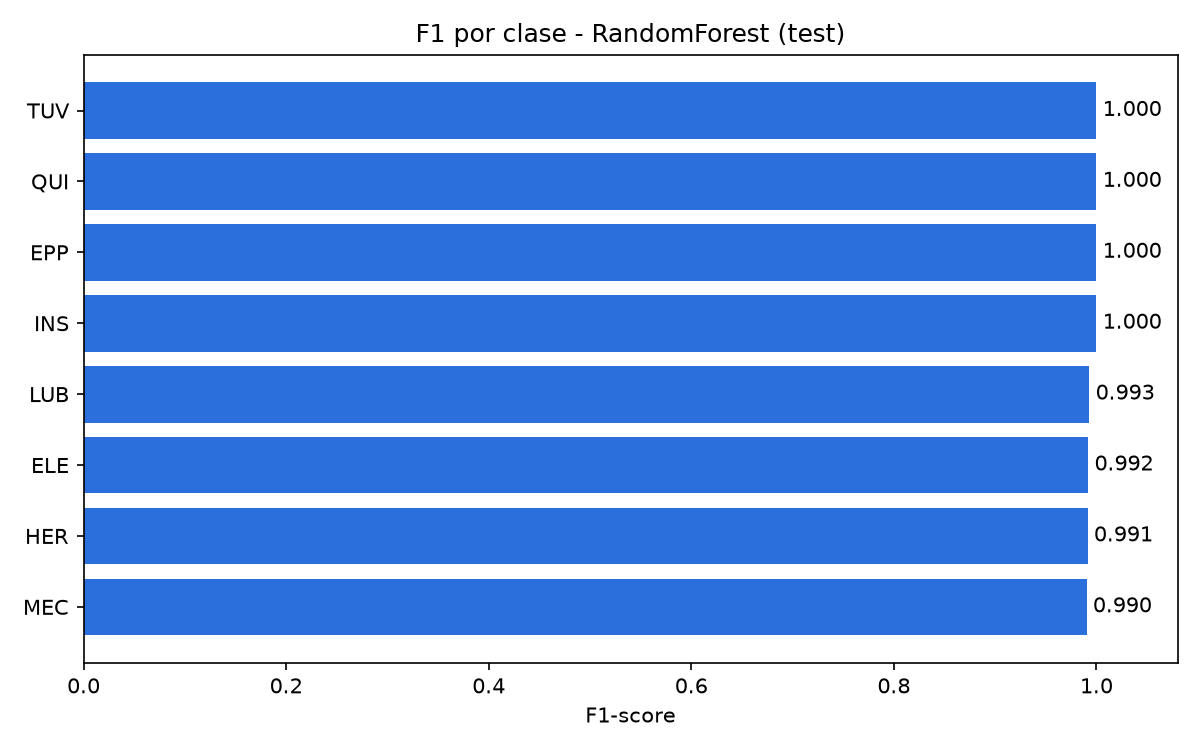
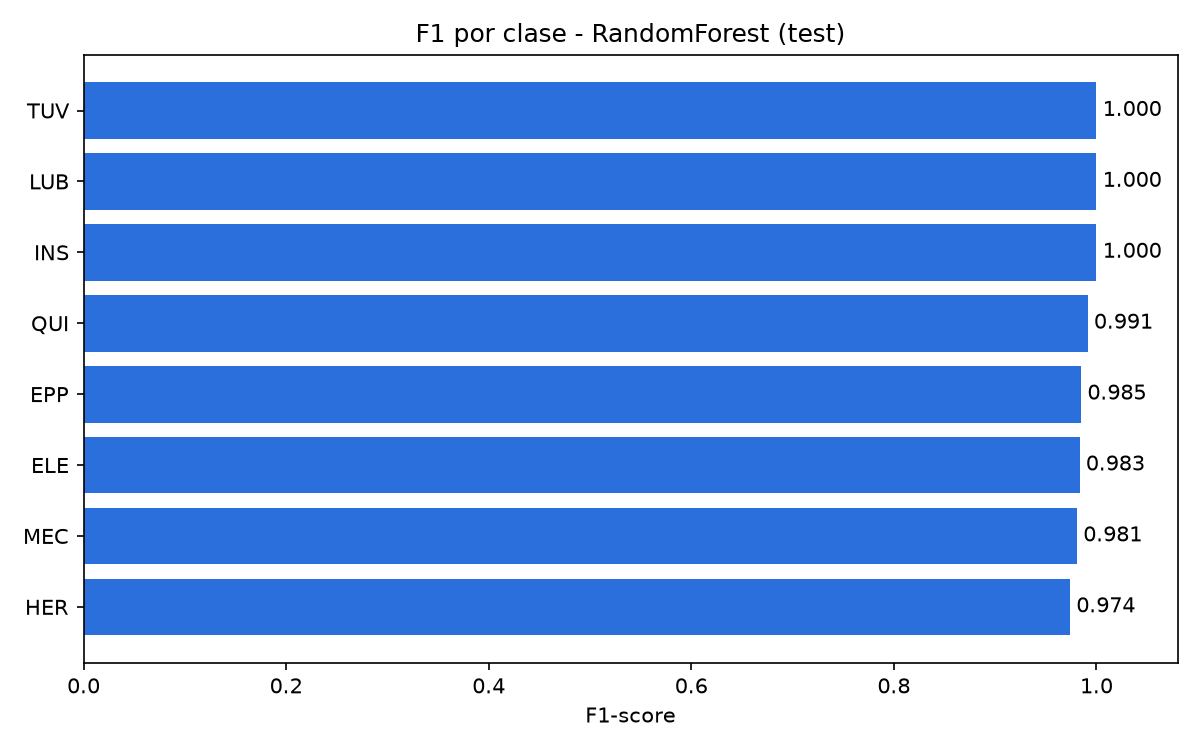
fase4: split agrupado por duplicados, validacion integrada y ruta de datos sin pasos manuales

diff --git a/src/models/train.py b/src/models/train.py
@@ -1,4 +1,8 @@
-"""Entrenamiento sin MLflow - compatible con restricciones AppLocker."""
+"""Entrenamiento y seleccion del modelo campeon (familia de material).
+
+Flujo: carga -> validacion -> split estratificado por grupos -> entrenamiento
+de candidatos -> seleccion por F1-macro en validacion -> evaluacion en test.
+"""
 from __future__ import annotations
 
 import json
@@ -6,26 +10,30 @@ import time
 import warnings
 from pathlib import Path
 
-import pandas as pd
 from sklearn.ensemble import RandomForestClassifier
 from sklearn.linear_model import LogisticRegression
 from sklearn.metrics import classification_report, f1_score
-from sklearn.model_selection import train_test_split
+from sklearn.model_selection import StratifiedGroupKFold
 from sklearn.pipeline import Pipeline
+from sklearn.preprocessing import LabelEncoder
 from xgboost import XGBClassifier
 
 from src.data.load_data import load_maestro
+from src.data.validate import validate_dataset
 from src.features.build_features import build_preprocessor
 from src.utils.config_loader import load_config
 
 warnings.filterwarnings("ignore", category=UserWarning)
+warnings.filterwarnings("ignore", category=FutureWarning)
+
+TARGET = "familia_cod"
+REPORTS = Path("reports")
 
 
 def _get_candidates(random_state: int = 42) -> dict:
     return {
         "LogisticRegression": LogisticRegression(
-            max_iter=1000, C=1.0, class_weight="balanced",
-            random_state=random_state, n_jobs=-1,
+            max_iter=1000, C=1.0, class_weight="balanced", random_state=random_state,
         ),
         "RandomForest": RandomForestClassifier(
             n_estimators=200, class_weight="balanced",
@@ -39,106 +47,121 @@ def _get_candidates(random_state: int = 42) -> dict:
     }
 
 
+def _group_fold(df, y, groups, n_splits, random_state):
+    """Devuelve (idx_resto, idx_fold) del primer fold estratificado por grupos."""
+    sgkf = StratifiedGroupKFold(n_splits=n_splits, shuffle=True, random_state=random_state)
+    return next(sgkf.split(df, y, groups))
+
+
 def make_splits(df, target_col, config):
+    """Split train/val/test estratificado y sin compartir grupos entre conjuntos.
+
+    Si existe `grupo_id`, un material y sus duplicados quedan siempre en el
+    mismo conjunto. Proporciones aproximadas: test_size y val_size del config.
+    """
     split_cfg = config.get("split", {})
-    test_size    = split_cfg.get("test_size", 0.20)
-    val_size     = split_cfg.get("val_size", 0.10)
+    test_size = split_cfg.get("test_size", 0.20)
+    val_size = split_cfg.get("val_size", 0.10)
     random_state = split_cfg.get("random_state", 42)
 
+    df = df.reset_index(drop=True)
+    groups = df["grupo_id"] if "grupo_id" in df.columns else df.index.to_series()
     y = df[target_col]
-    df_tv, df_test, y_tv, y_test = train_test_split(
-        df, y, test_size=test_size, random_state=random_state, stratify=y
+
+    idx_tv, idx_test = _group_fold(df, y, groups, round(1 / test_size), random_state)
+    df_tv, df_test = df.iloc[idx_tv].reset_index(drop=True), df.iloc[idx_test]
+
+    n_val = round((1 - test_size) / val_size)
+    idx_train, idx_val = _group_fold(
+        df_tv, df_tv[target_col], groups.iloc[idx_tv].reset_index(drop=True), n_val, random_state
     )
-    val_ratio = val_size / (1 - test_size)
-    df_train, df_val, y_train, y_val = train_test_split(
-        df_tv, y_tv, test_size=val_ratio, random_state=random_state, stratify=y_tv
-    )
-    print(f"  Train: {len(df_train)}  Val: {len(df_val)}  Test: {len(df_test)}")
-    return df_train, df_val, df_test, y_train, y_val, y_test
+    df_train, df_val = df_tv.iloc[idx_train], df_tv.iloc[idx_val]
+
+    if "grupo_id" in df.columns:
+        g_tr, g_va, g_te = (set(d["grupo_id"]) for d in (df_train, df_val, df_test))
+        assert not (g_tr & g_te or g_tr & g_va or g_va & g_te), "Grupos compartidos entre splits"
+
+    print(f"  Train: {len(df_train)}  Val: {len(df_val)}  Test: {len(df_test)}"
+          f"  (sin grupos compartidos)")
+    return (df_train, df_val, df_test,
+            df_train[target_col], df_val[target_col], df_test[target_col])
 
 
-def train_one(name, estimator, df_train, df_val, y_train, y_val, config):
-    preprocessor = build_preprocessor(config)
-    pipeline = Pipeline([("preprocessor", preprocessor), ("clf", estimator)])
-
+def train_one(name, estimator, df_train, df_val, y_train, y_val, config, class_names):
+    pipeline = Pipeline([("preprocessor", build_preprocessor(config)), ("clf", estimator)])
     t0 = time.time()
     pipeline.fit(df_train, y_train)
     train_time = time.time() - t0
 
     y_pred = pipeline.predict(df_val)
-    f1_macro    = f1_score(y_val, y_pred, average="macro")
+    f1_macro = f1_score(y_val, y_pred, average="macro")
     f1_weighted = f1_score(y_val, y_pred, average="weighted")
 
-    reports_dir = Path("reports")
-    reports_dir.mkdir(exist_ok=True)
-    report_path = reports_dir / f"val_report_{name}.txt"
-    report_path.write_text(classification_report(y_val, y_pred), encoding="utf-8")
-
+    REPORTS.mkdir(exist_ok=True)
+    (REPORTS / f"val_report_{name}.txt").write_text(
+        classification_report(y_val, y_pred, target_names=class_names), encoding="utf-8"
+    )
     print(f"  [{name}] F1-macro={f1_macro:.4f} | F1-weighted={f1_weighted:.4f} | {train_time:.1f}s")
     return pipeline, f1_macro, f1_weighted, train_time
 
 
 def run_training(config=None):
-    if config is None:
-        config = load_config()
+    config = config or load_config()
 
     print("Cargando datos...")
     df = load_maestro(config)
-    from sklearn.preprocessing import LabelEncoder
-    df['familia_cod'] = LabelEncoder().fit_transform(df['familia_cod'])
+
+    print("\nValidando datos...")
+    report = validate_dataset(df, config)
+    print(report.summary())
+    if not report.passed:
+        raise ValueError("La validacion de datos fallo; revisa los errores arriba.")
+
+    # XGBoost exige etiquetas numericas: se codifican para todos los modelos
+    encoder = LabelEncoder()
+    df[TARGET] = encoder.fit_transform(df[TARGET])
+    class_names = list(encoder.classes_)
 
     print("\nGenerando splits...")
-    df_train, df_val, df_test, y_train, y_val, y_test = make_splits(
-        df, "familia_cod", config
-    )
+    df_train, df_val, df_test, y_train, y_val, y_test = make_splits(df, TARGET, config)
 
     candidates = _get_candidates(config.get("split", {}).get("random_state", 42))
     results = {}
-
     print(f"\nEntrenando {len(candidates)} modelos...\n")
     for name, estimator in candidates.items():
         print(f"--- {name} ---")
-        pipeline, f1_val, f1_w, t = train_one(
-            name, estimator, df_train, df_val, y_train, y_val, config
+        pipe, f1_val, f1_w, t = train_one(
+            name, estimator, df_train, df_val, y_train, y_val, config, class_names
         )
-        results[name] = {"pipeline": pipeline, "f1_val": f1_val,
-                         "f1_weighted": f1_w, "train_time": t}
+        results[name] = {"pipeline": pipe, "f1_val": f1_val, "f1_weighted": f1_w, "train_time": t}
 
-    # Campeon
-    champion_name = max(results, key=lambda k: results[k]["f1_val"])
-    champion_pipe = results[champion_name]["pipeline"]
-    champion_f1   = results[champion_name]["f1_val"]
+    champion = max(results, key=lambda k: results[k]["f1_val"])
+    champion_pipe = results[champion]["pipeline"]
+    print(f"\n{'=' * 40}\nCAMPEON: {champion}  (F1-macro val = {results[champion]['f1_val']:.4f})"
+          f"\n{'=' * 40}\n")
 
-    print(f"\n{'='*40}")
-    print(f"CAMPEON: {champion_name}  (F1-macro val = {champion_f1:.4f})")
-    print(f"{'='*40}\n")
-
-    # Evaluar en test
     y_pred_test = champion_pipe.predict(df_test)
     f1_test = f1_score(y_test, y_pred_test, average="macro")
-    print(f"F1-macro TEST: {f1_test:.4f}")
-    print("\nReporte test:\n")
-    print(classification_report(y_test, y_pred_test))
+    report_test = classification_report(y_test, y_pred_test, target_names=class_names)
+    print(f"F1-macro TEST: {f1_test:.4f}\n\nReporte test:\n\n{report_test}")
 
-    # Guardar reporte y metricas
-    Path("reports").mkdir(exist_ok=True)
-    Path("reports/test_report_champion.txt").write_text(
-        classification_report(y_test, y_pred_test), encoding="utf-8"
-    )
-
+    (REPORTS / "test_report_champion.txt").write_text(report_test, encoding="utf-8")
     metrics = {
-        "champion": champion_name,
-        "f1_macro_val":  round(champion_f1, 4),
+        "champion": champion,
+        "f1_macro_val": round(results[champion]["f1_val"], 4),
         "f1_macro_test": round(f1_test, 4),
+        "classes": class_names,
+        "split": {"train": len(df_train), "val": len(df_val), "test": len(df_test),
+                  "agrupado_por": "grupo_id"},
         "all_models": {
             k: {"f1_val": round(v["f1_val"], 4), "f1_weighted": round(v["f1_weighted"], 4)}
             for k, v in results.items()
-        }
+        },
     }
-    Path("reports/metrics_summary.json").write_text(
+    (REPORTS / "metrics_summary.json").write_text(
         json.dumps(metrics, indent=2, ensure_ascii=False), encoding="utf-8"
     )
-    print(f"\nMetricas guardadas en reports/metrics_summary.json")
+    print("\nMetricas guardadas en reports/metrics_summary.json")
     return results
 
 

diff --git a/src/data/load_data.py b/src/data/load_data.py
@@ -1,58 +1,91 @@
-from pathlib import Path
+"""Carga y normalizacion del maestro de materiales.
+
+Lee la hoja Maestro_materiales, renombra columnas a nombres tecnicos,
+normaliza textos y construye `grupo_id`, que agrupa cada material con sus
+duplicados declarados (columna 'Duplicado de (material)'). El split usa
+`grupo_id` para que un material y su duplicado nunca queden uno en train y
+otro en test (prevencion de data leakage).
+"""
+from pathlib import Path
+
 import pandas as pd
 from unidecode import unidecode
+
 from src.utils.config_loader import load_config
+
 
 def _normalize_text(text) -> str:
     if not isinstance(text, str):
         return ""
     return " ".join(unidecode(text).lower().split())
 
+
 def _combine_text(row, text_cols):
     parts = [_normalize_text(str(row[c])) for c in text_cols if c in row.index]
     return " | ".join(p for p in parts if p)
 
+
+RENAME_MAP = {
+    "Familia (c\u00f3digo)": "familia_cod",
+    "Familia (codigo)": "familia_cod",
+    "Categor\u00eda (c\u00f3digo)": "categoria_cod",
+    "Subcategor\u00eda (c\u00f3digo)": "subcategoria_cod",
+    "Texto breve": "texto_breve",
+    "Texto largo": "texto_largo",
+    "Marca": "marca",
+    "UM": "um",
+    "Precio base (USD)": "precio_usd",
+    "Filas ME2M": "filas_me2m",
+    "\u00cdtems en eventos Ariba": "items_ariba",
+    "Grupo de art\u00edculos SAP actual": "grupo_sap",
+    "Duplicado de (material)": "duplicado_de",
+    "Material": "material_id",
+}
+
+KEEP = [
+    "material_id", "familia_cod", "categoria_cod", "subcategoria_cod",
+    "texto_breve", "texto_largo", "marca", "um",
+    "precio_usd", "filas_me2m", "items_ariba", "grupo_sap", "duplicado_de",
+]
+
+
 def load_maestro(config):
     raw_dir = Path(config["data"]["raw_dir"])
-    filename = config["data"]["files"]["maestro"]
-    path = raw_dir / filename
+    path = raw_dir / config["data"]["files"]["maestro"]
+    if not path.exists():
+        raise FileNotFoundError(f"No se encontro el archivo de datos: {path}")
     sheet = config["data"]["sheets"]["maestro_materiales"]
-    df = pd.read_excel(path, sheet_name=sheet)
-    rename_map = {
-        "Familia (c\u00f3digo)": "familia_cod",
-        "Familia (codigo)": "familia_cod",
-        "Categor\u00eda (c\u00f3digo)": "categoria_cod",
-        "Subcategor\u00eda (c\u00f3digo)": "subcategoria_cod",
-        "Texto breve": "texto_breve",
-        "Texto largo": "texto_largo",
-        "Marca": "marca",
-        "UM": "um",
-        "Precio base (USD)": "precio_usd",
-        "Filas ME2M": "filas_me2m",
-        "\u00cdtems en eventos Ariba": "items_ariba",
-        "Grupo de art\u00edculos SAP actual": "grupo_sap",
-        "Material": "material_id",
-    }
-    df = df.rename(columns=rename_map)
-    keep = ["material_id","familia_cod","categoria_cod","subcategoria_cod",
-            "texto_breve","texto_largo","marca","um",
-            "precio_usd","filas_me2m","items_ariba","grupo_sap"]
-    df = df[[c for c in keep if c in df.columns]].copy()
-    df["texto_completo"] = df.apply(lambda r: _combine_text(r, ["texto_breve","texto_largo"]), axis=1)
+
+    df = pd.read_excel(path, sheet_name=sheet).rename(columns=RENAME_MAP)
+    df = df[[c for c in KEEP if c in df.columns]].copy()
+
+    df["texto_completo"] = df.apply(
+        lambda r: _combine_text(r, ["texto_breve", "texto_largo"]), axis=1
+    )
     df["marca"] = df["marca"].fillna("SIN_MARCA").apply(_normalize_text)
     df["um"] = df["um"].apply(_normalize_text)
     df["grupo_sap"] = df["grupo_sap"].astype(str).replace("nan", "").apply(_normalize_text)
     df["precio_usd"] = pd.to_numeric(df["precio_usd"], errors="coerce").fillna(0.0)
     df["filas_me2m"] = pd.to_numeric(df["filas_me2m"], errors="coerce").fillna(0).astype(int)
     df["items_ariba"] = pd.to_numeric(df["items_ariba"], errors="coerce").fillna(0).astype(int)
+
+    # Grupo = material original; los duplicados heredan el id de su original
+    if "duplicado_de" in df.columns:
+        dup = pd.to_numeric(df["duplicado_de"], errors="coerce")
+        df["grupo_id"] = dup.fillna(df["material_id"]).astype("int64")
+        df = df.drop(columns=["duplicado_de"])
+    else:
+        df["grupo_id"] = df["material_id"]
     return df
 
+
 def load_dataset(config_path=None):
-    config = load_config(config_path)
-    return load_maestro(config)
+    return load_maestro(load_config(config_path))
+
 
 if __name__ == "__main__":
     df = load_dataset()
     print(f"Dataset cargado: {df.shape}")
     print(df["familia_cod"].value_counts())
-    print(f"\nNulos: {df.isnull().sum().to_dict()}")
+    print(f"Grupos unicos: {df['grupo_id'].nunique()} (duplicados agrupados: "
+          f"{len(df) - df['grupo_id'].nunique()})")

diff --git a/reports/baselines.md b/reports/baselines.md
@@ -3,9 +3,9 @@
 | Enfoque | F1-macro |
 |---|---|
 | Azar (clase mas frecuente) | 0.0315 |
-| Agrupacion SAP actual (grupo_sap) | 0.7244 |
-| Sin texto (precio, marca, UM) | 0.7289 |
-| Solo texto_breve (TF-IDF + LogReg) | 0.9940 |
-| Modelo del proyecto (RandomForest) | 0.9958 |
+| Agrupacion SAP actual (grupo_sap) | 0.7215 |
+| Sin texto (precio, marca, UM) | 0.7370 |
+| Solo texto_breve (TF-IDF + LogReg) | 0.9979 |
+| Modelo del proyecto (RandomForest) | 0.9893 |
 
-Test sin texto_breve repetido en train: 436 filas (64 quitadas), F1-macro = 0.9953
+Test sin texto_breve repetido en train: 451 filas (49 quitadas), F1-macro = 0.9885
